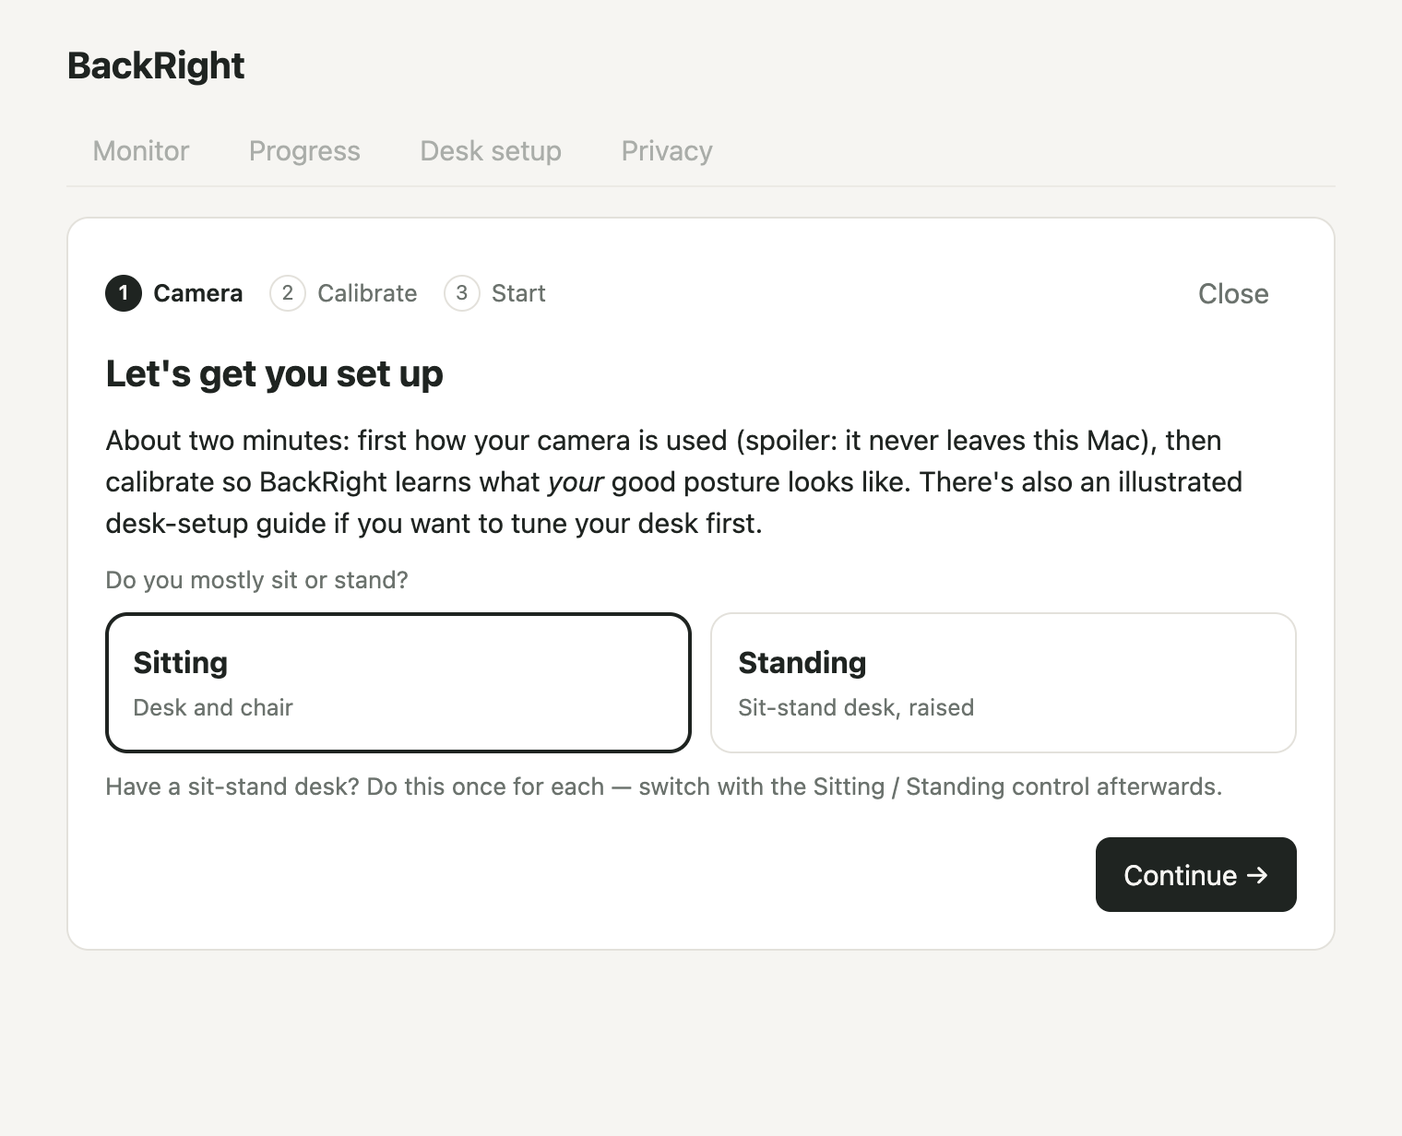
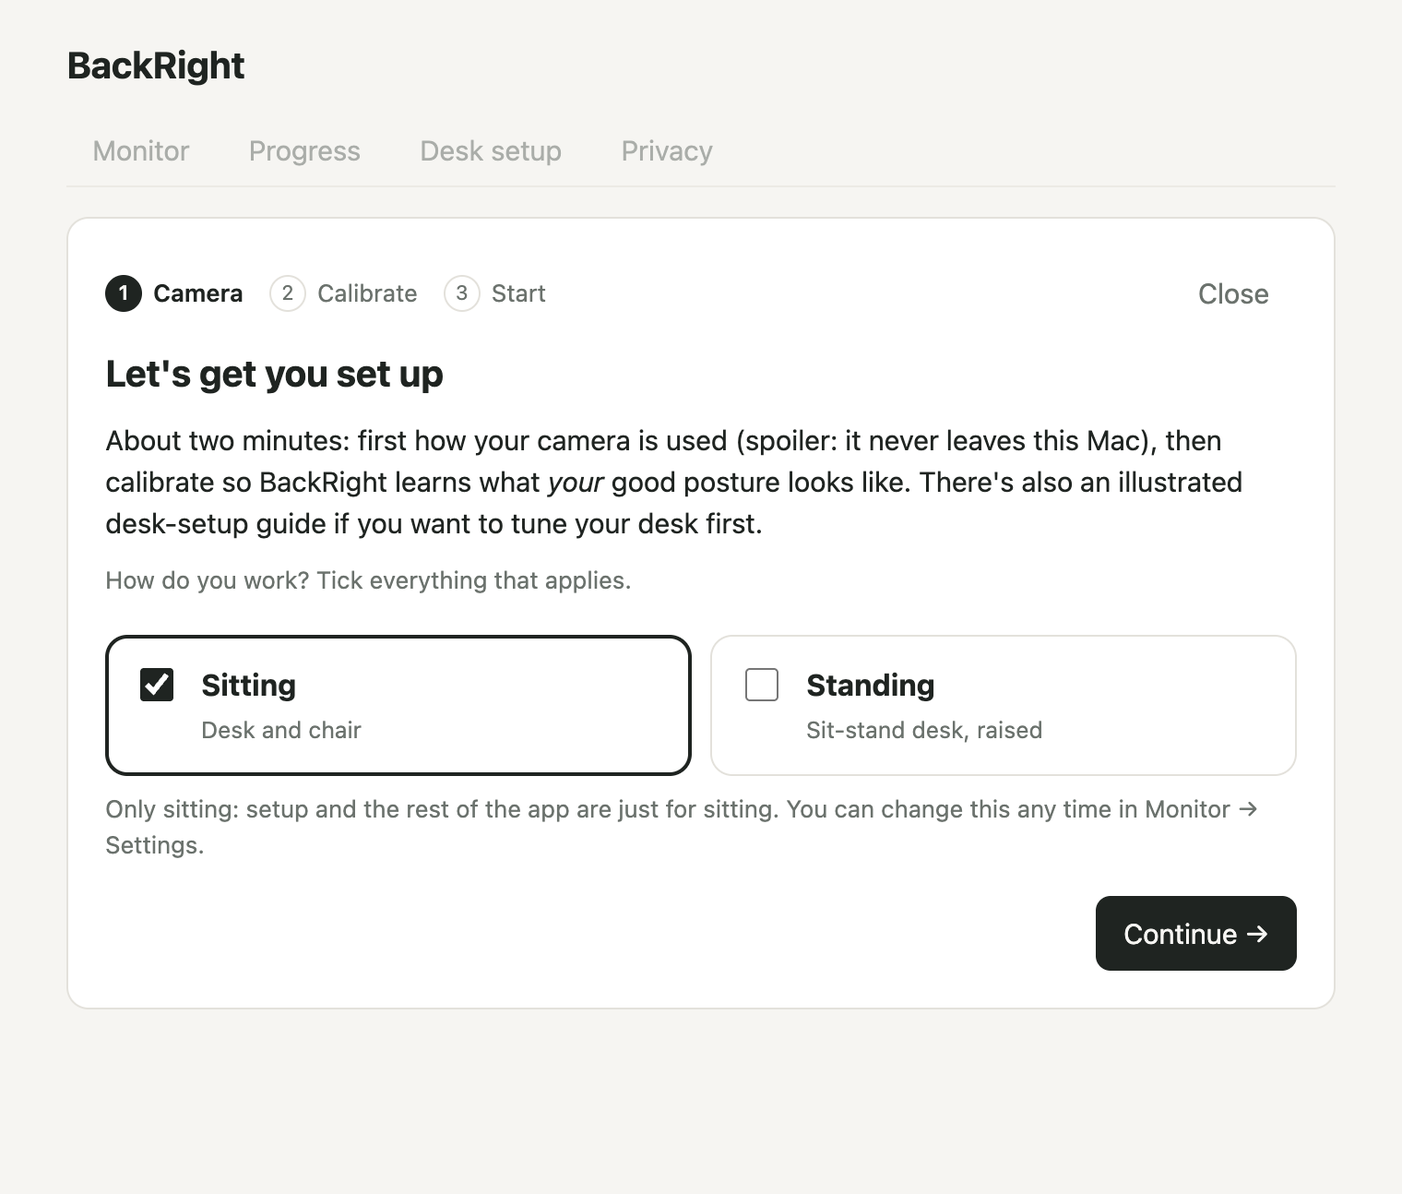
First screen: choose sitting, standing or both; setup, calibration, mode switch and tray follow the choice

diff --git a/src/renderer/onboarding.js b/src/renderer/onboarding.js
@@ -1,11 +1,12 @@
 import { GUIDE, CHECK_LABELS } from "./guide.js";
 import { art } from "./guide-art.js";
+import { withMode } from "./modes.js";
 
 const esc = s => String(s).replace(/[&<>"]/g, c => ({ "&": "&amp;", "<": "&lt;", ">": "&gt;", '"': "&quot;" }[c]));
 const modeWord = m => (m === "sit" ? "sitting" : "standing");
 
 /**
- * First-run walkthrough: Welcome → Camera & privacy → Calibrate → Done.
+ * First-run walkthrough: Welcome (sitting / standing / both) → Camera & privacy → Calibrate (once per chosen mode) → Done.
  * The illustrated desk-setup guide is an optional sub-page, opened from the Calibrate step ("Desk setup guide"),
  * so the main path stays short but the detail is one click away. It can also be opened straight from the Desk setup
  * tab / the reminder banner (start({ fromGuide: true })). `api` is the small slice of app.js this needs.
@@ -13,16 +14,24 @@ const modeWord = m => (m === "sit" ? "sitting" : "standing");
  * `sub` is null on the main path, otherwise which guide page is showing: -1 overview, 0..n-1 the steps, n the check page.
  */
 export function createWizard(root, api) {
-  const STEPS = ["welcome", "privacy", "calibrate", "done"];
+  // the steps depend on what was chosen on the welcome screen: one Calibrate step for each of sitting / standing
+  const stepIds = () => ["welcome", "privacy", ...api.enabledModes().map(m => "calibrate:" + m), "done"];
+  const calibMode = id => (id.startsWith("calibrate:") ? id.slice(10) : null);
   let step = 0, sub = null, calibrating = false, pvTimer = null, pvLastFrames = 0, pvTick = null;
   const ticked = new Set();
 
   const guide = () => GUIDE[api.settings().mode];
-  const go = n => { step = Math.max(0, Math.min(STEPS.length - 1, n)); sub = null; render(); root.scrollIntoView?.({ block: "start" }); };
-  const goStep = id => go(STEPS.indexOf(id));
+  const go = async n => {
+    const ids = stepIds(); step = Math.max(0, Math.min(ids.length - 1, n)); sub = null;
+    const m = calibMode(ids[step]);
+    if (m && api.settings().mode !== m) await api.setMode(m);   // this step calibrates (and shows the guide for) this mode
+    render(); root.scrollIntoView?.({ block: "start" });
+  };
+  const goStep = id => go(stepIds().indexOf(id));
+  const firstCalibrate = () => go(2);
 
   function phase() {
-    const p = { welcome: 1, privacy: 1, calibrate: 2, done: 3 }[STEPS[step]];
+    const id = stepIds()[step], p = id === "welcome" || id === "privacy" ? 1 : id === "done" ? 3 : 2;
     const label = (n, t) => `<li class="${p === n ? "on" : p > n ? "past" : ""}"><span>${p > n ? "✓" : n}</span>${t}</li>`;
     return `<ol class="phases">${label(1, "Camera")}${label(2, "Calibrate")}${label(3, "Start")}</ol>`;
   }
@@ -73,7 +82,7 @@ export function createWizard(root, api) {
 
   // ---------- main path ----------
   function render() {
-    const s = api.settings(), mode = s.mode, g = guide(), id = STEPS[step];
+    const s = api.settings(), mode = s.mode, g = guide(), id = stepIds()[step], modes = id === "welcome" ? api.welcomeModes() : api.enabledModes();
     clearInterval(pvTimer); api.placeStage(null);   // rescue the preview element before innerHTML replaces the card
     let html = "";
 
@@ -83,12 +92,14 @@ export function createWizard(root, api) {
       html = `${top()}
         <h2>Let's get you set up</h2>
         <p class="lead">About two minutes: first how your camera is used (spoiler: it never leaves this Mac), then calibrate so BackRight learns what <i>your</i> good posture looks like. There's also an illustrated desk-setup guide if you want to tune your desk first.</p>
-        <p class="hint">Do you mostly sit or stand?</p>
+        <p class="hint">How do you work? Tick everything that applies.</p>
         <div class="choice" role="group">
-          <button data-mode="sit" class="${mode === "sit" ? "on" : ""}"><b>Sitting</b><small>Desk and chair</small></button>
-          <button data-mode="stand" class="${mode === "stand" ? "on" : ""}"><b>Standing</b><small>Sit-stand desk, raised</small></button>
+          <label class="${modes.includes("sit") ? "on" : ""}"><input type="checkbox" data-modechk="sit" ${modes.includes("sit") ? "checked" : ""}><span><b>Sitting</b><small>Desk and chair</small></span></label>
+          <label class="${modes.includes("stand") ? "on" : ""}"><input type="checkbox" data-modechk="stand" ${modes.includes("stand") ? "checked" : ""}><span><b>Standing</b><small>Sit-stand desk, raised</small></span></label>
         </div>
-        <p class="hint">Have a sit-stand desk? Do this once for each — switch with the Sitting / Standing control afterwards.</p>
+        <p class="hint">${modes.length > 1
+          ? "Both: you'll calibrate each once, then switch with the Sitting / Standing control at the top right (or from the menu-bar icon)."
+          : `Only ${modeWord(modes[0])}: setup and the rest of the app are just for ${modeWord(modes[0])}. You can change this any time in Monitor → Settings.`}</p>
         <div class="row wiz-nav"><span class="spacer"></span><button class="primary" data-act="next">Continue →</button></div>`;
     }
 
@@ -126,8 +137,9 @@ export function createWizard(root, api) {
         </div>`;
     }
 
-    else if (id === "calibrate") {
+    else if (calibMode(id)) {
       const standing = mode === "stand", done = s.setupDone[mode], fail = api.notice();
+      const nth = modes.indexOf(mode) + 1;
       const setupCard = done
         ? `<div class="notice"><b>✓ Desk set up.</b> <button class="link" data-act="openGuide">Review the guide</button></div>`
         : `<div class="card inner setup-card">
@@ -139,7 +151,8 @@ export function createWizard(root, api) {
              <button data-act="openGuide">Desk setup guide →</button>
            </div>`;
       html = `${top()}
-        <h2>Calibrate your alignment</h2>
+        ${modes.length > 1 ? `<p class="eyebrow">${modeWord(mode)} · ${nth} of ${modes.length}</p>` : ""}
+        <h2>Calibrate your ${modes.length > 1 ? modeWord(mode) + " " : ""}alignment</h2>
         ${setupCard}
         <p class="lead">${standing ? "Stand" : "Sit"} the way you want to hold — tall, relaxed, looking at the screen, with your head and shoulders in the camera's view.</p>
         <ul class="points">
@@ -152,16 +165,16 @@ export function createWizard(root, api) {
         <div class="row wiz-nav">
           <button data-act="back">← Back</button>
           <span class="spacer"></span>
-          <button class="ghost" data-act="later">Do this later</button>
+          <button class="ghost" data-act="later">${nth < modes.length ? `Skip ${modeWord(mode)}` : "Do this later"}</button>
           <button class="primary" data-act="calibrate" ${calibrating ? "disabled" : ""}>${calibrating ? "Calibrating…" : "Start calibration"}</button>
         </div>`;
     }
 
     else { // done
-      const calibrated = !!s.baselines[mode], setup = s.setupDone[mode];
+      const calibrated = !!s.baselines[mode], setup = s.setupDone[mode], missing = modes.filter(m => !s.baselines[m]);
       html = `${top()}
         <h2>${calibrated ? "You're all set" : "Setup finished"}</h2>
-        <p class="lead">${calibrated ? "Monitoring will nudge you with a soft glow around the screen when your posture slips." : "You haven't calibrated yet — do it from the Monitor tab when you're ready."}</p>
+        <p class="lead">${calibrated ? "Monitoring will nudge you with a soft glow around the screen when your posture slips." : "You haven't calibrated yet — do it from the Monitor tab when you're ready."}${calibrated && missing.length ? ` ${missing.map(modeWord).map(w => w[0].toUpperCase() + w.slice(1)).join(" and ")} isn't calibrated yet — switch to it at the top right and press Calibrate when you're at that desk height.` : ""}</p>
         <p class="hint">Where to find things later:</p>
         <ul class="points">
           <li><b>Desk setup tab</b> — the illustrated guide${setup ? "" : ", which you haven't gone through yet"}, and the camera check</li>
@@ -169,7 +182,7 @@ export function createWizard(root, api) {
           <li><b>Progress tab</b> — how often you slip and whether it's getting better, day by day</li>
           <li><b>Movement breaks</b> — after 30 minutes at your desk BackRight suggests a quick stretch (change it or turn it off in Monitor → Settings)</li>
           <li><b>Menu-bar and Dock icons</b> — status at a glance; pause or snooze from the menu-bar icon</li>
-          <li><b>Sit-stand desk?</b> Switch to the other mode at the top right and set it up too</li>
+          ${modes.length > 1 ? `<li><b>Sitting / Standing switch</b> — top right of this window and in the menu-bar menu; each is calibrated separately</li>` : ""}
         </ul>
         <div class="row wiz-nav"><span class="spacer"></span><button data-act="finish">Finish</button>${calibrated ? `<button class="primary" data-act="finishStart">Start monitoring</button>` : ""}</div>`;
     }
@@ -200,8 +213,6 @@ export function createWizard(root, api) {
   const openGuide = at => { sub = at; render(); root.scrollIntoView?.({ block: "start" }); };
 
   root.addEventListener("click", async e => {
-    const modeBtn = e.target.closest("[data-mode]");
-    if (modeBtn) { await api.setMode(modeBtn.dataset.mode); render(); return; }
     const pageBtn = e.target.closest("[data-sub]");
     if (pageBtn) { if (api.live() && +pageBtn.dataset.sub !== guide().steps.length) api.setLive(false); sub = +pageBtn.dataset.sub; render(); return; }
     if (e.target.id === "wizLive" || e.target.id === "pvPreview") { api.toggleLive(); render(); return; }
@@ -209,9 +220,9 @@ export function createWizard(root, api) {
     if (!act) return;
     const n = guide().steps.length;
     switch (act) {
-      case "next": go(step + 1); break;
+      case "next": await api.setModes(api.welcomeModes()); go(step + 1); break;   // make the (possibly preselected) choice official
       case "back": api.setLive(false); go(step - 1); break;
-      case "privacyNext": api.setLive(false); goStep("calibrate"); break;
+      case "privacyNext": api.setLive(false); firstCalibrate(); break;
       case "openGuide": openGuide(-1); break;
       case "guideNext": sub = Math.min(sub + 1, n); render(); break;
       case "guidePrev": sub = Math.max(sub - 1, -1); render(); break;
@@ -219,16 +230,18 @@ export function createWizard(root, api) {
       case "setupDone": api.setLive(false); await api.markSetupDone(); sub = null; render(); break;
       case "calibrate":
         calibrating = true; render();
-        api.calibrate(ok => { calibrating = false; ok ? goStep("done") : render(); });
+        api.calibrate(ok => { calibrating = false; ok ? go(step + 1) : render(); });
         break;
-      case "later": goStep("done"); break;
+      case "later": go(step + 1); break;
       case "camSettings": api.openCameraSettings(); break;
       case "relaunch": api.relaunch(); break;
       case "close": case "finish": await close(false); break;
       case "finishStart": await close(true); break;
     }
   });
-  root.addEventListener("change", e => {
+  root.addEventListener("change", async e => {
+    const m = e.target.dataset?.modechk;
+    if (m) { await api.setModes(withMode(api.welcomeModes(), m, e.target.checked)); render(); return; }   // can't untick the last one
     const t = e.target.dataset?.tick; if (t === undefined) return;
     e.target.checked ? ticked.add(+t) : ticked.delete(+t);
   });
@@ -241,7 +254,7 @@ export function createWizard(root, api) {
 
   return {
     /** fromGuide: open straight into the desk-setup guide (replay from the Desk setup tab / reminder banner). */
-    start({ fromGuide = false } = {}) { calibrating = false; ticked.clear(); step = fromGuide ? STEPS.indexOf("calibrate") : 0; sub = fromGuide ? -1 : null; render(); },
+    start({ fromGuide = false } = {}) { calibrating = false; ticked.clear(); step = fromGuide ? Math.max(2, stepIds().indexOf("calibrate:" + api.settings().mode)) : 0; sub = fromGuide ? -1 : null; render(); },
     refresh() { render(); },
   };
 }

diff --git a/src/renderer/app.js b/src/renderer/app.js
@@ -7,6 +7,7 @@ import { createMoveCard } from "./move.js";
 import { createBreakScheduler } from "./breaks.js";
 import * as H from "./history.js";
 import { createProgress } from "./progress.js";
+import { enabledModes, withMode, currentMode } from "./modes.js";
 
 const $ = id => document.getElementById(id);
 const esc = s => String(s).replace(/[&<>"]/g, c => ({ "&": "&amp;", "<": "&lt;", ">": "&gt;", '"': "&quot;" }[c]));
@@ -260,7 +261,9 @@ function render() {
   renderTodayLine();
   if (!inWizard) placeStage(null);                   // never leave the preview parked inside a hidden section
   $("tabs").classList.toggle("locked", inWizard);   // can't wander off mid-walkthrough; "Close" is the exit
-  $("modeSeg").hidden = inWizard;
+  $("modeSeg").hidden = inWizard || enabledModes(settings).length < 2;   // nothing to switch between if you only use one
+  const modes = enabledModes(settings);
+  $("modeSit").checked = modes.includes("sit"); $("modeStand").checked = modes.includes("stand");
 
   const mode = settings.mode;
   const needsSetup = settings.onboarded && !settings.monitoring && !settings.setupDone[mode] && !settings.setupBannerDismissed[mode];
@@ -310,6 +313,9 @@ const wizard = createWizard($("tab-onboard"), {
   privacyStats: () => window.posture.privacyStats(),
   placeStage,
   setMode: async m => { if (m !== settings.mode) { monitor.reset(); window.posture.setWarning(false); await save({ mode: m }); } },
+  enabledModes: () => enabledModes(settings),
+  welcomeModes: () => (settings.modes ? enabledModes(settings) : ["sit"]),   // first run: Sitting preselected
+  setModes: modes => applyModes(modes),
   markSetupDone: () => save({ setupDone: { ...settings.setupDone, [settings.mode]: true } }),
   calibrate: cb => startCalibration(cb),
   hintDeskSetup: on => on ? showTabHint("Skipped for now — the desk setup guide lives here", { persist: true }) : hideTabHint(),
@@ -323,6 +329,15 @@ const wizard = createWizard($("tab-onboard"), {
     else if (skippedSetup || !settings.setupDone[settings.mode]) showTabHint("You can do the desk setup any time from here");
   },
 });
+
+// Choose which of sitting / standing this person uses. If the one in use is switched off, move to the other.
+async function applyModes(modes) {
+  const patch = { modes };
+  if (!modes.includes(settings.mode)) { patch.mode = modes[0]; monitor.reset(); window.posture.setWarning(false); }
+  await save(patch);
+}
+for (const [id, mode] of [["modeSit", "sit"], ["modeStand", "stand"]])
+  $(id).onchange = e => applyModes(withMode(enabledModes(settings), mode, e.target.checked));   // render() resets the box if that was the last one
 
 function openWizard(opts) { tab = "onboard"; notice = ""; wizard.start(opts); render(); }
 
@@ -396,13 +411,14 @@ if (window.posture.isDebug) {
       for (let i = 0; i < count; i++) { simNow += stepMs; simEpoch += stepMs; recordSample(simNow, present, warned); window.posture.setWarning(!!warned); }
     },
     history: () => recorder.data(), saveHistory,
-    state: () => ({ breakShowing, ...breaks.snapshot(), simNow }),
+    state: () => ({ breakShowing, mode: settings.mode, ...breaks.snapshot(), simNow }),
     overlays: () => window.posture.debugOverlays(),   // Electron's own view of which overlay windows are visible
   };
 }
 
 // ---------- boot ----------
 settings = await window.posture.getSettings();
+if (settings.mode !== currentMode(settings)) settings = await window.posture.setSettings({ mode: currentMode(settings) });
 recorder = H.createRecorder(H.prune(H.sanitize(await window.posture.getHistory()), H.dateKey(Date.now())));
 if (!settings.onboarded) { tab = "onboard"; wizard.start(); }
 render();

diff --git a/src/main/main.js b/src/main/main.js
@@ -24,7 +24,8 @@ const CSP = [
 ].join("; ");
 
 const DEFAULTS = {
-  mode: "sit",                 // "sit" | "stand"
+  mode: "sit",                 // "sit" | "stand" — the one in use right now
+  modes: null,                 // which of them this person works in: ["sit"], ["stand"] or both; null = not chosen yet = both
   baselines: { sit: null, stand: null },
   setupDone: { sit: false, stand: false },
   onboarded: false,            // first-run walkthrough finished or closed
@@ -291,14 +292,17 @@ function rebuildTray() {
     { type: "separator" },
     { label: "Take a movement break…", click: () => openPanelAnd("cmd:start-break") },
     { type: "separator" },
-    { label: "Sitting", type: "radio", checked: settings.mode === "sit", click: () => setMode("sit") },
-    { label: "Standing", type: "radio", checked: settings.mode === "stand", click: () => setMode("stand") },
-    { type: "separator" },
+    ...(enabledModes().length > 1 ? [
+      { label: "Sitting", type: "radio", checked: settings.mode === "sit", click: () => setMode("sit") },
+      { label: "Standing", type: "radio", checked: settings.mode === "stand", click: () => setMode("stand") },
+      { type: "separator" },
+    ] : []),
     { label: "Open BackRight…", click: showPanel },
     { label: "Quit", click: () => { app.isQuitting = true; app.quit(); } },
   ]));
 }
 
+function enabledModes() { const m = ["sit", "stand"].filter(x => Array.isArray(settings.modes) && settings.modes.includes(x)); return m.length ? m : ["sit", "stand"]; }
 function setMode(mode) { settings.mode = mode; saveSettings(); rebuildTray(); sendToPanel("settings:changed", settings); }
 function sendToPanel(ch, payload) { if (panel && !panel.isDestroyed()) panel.webContents.send(ch, payload); }
 

diff --git a/src/renderer/modes.js b/src/renderer/modes.js
@@ -1,0 +1,24 @@
+// Which postures the person actually works in: sitting, standing, or both (a sit-stand desk). Pure; no DOM.
+// `settings.modes` is null until they choose (v0.1 settings files have no such key) — null means "both", so upgrading
+// changes nothing.
+export const ALL_MODES = ["sit", "stand"];
+
+/** The enabled modes, in sit → stand order. Never empty. */
+export function enabledModes(settings) {
+  const m = settings?.modes;
+  if (!Array.isArray(m)) return [...ALL_MODES];
+  const ok = ALL_MODES.filter(x => m.includes(x));
+  return ok.length ? ok : [...ALL_MODES];
+}
+
+/** Turn one mode on or off. Refuses to leave nothing selected (returns the list unchanged). */
+export function withMode(modes, which, on) {
+  const next = ALL_MODES.filter(m => (m === which ? on : modes.includes(m)));
+  return next.length ? next : [...modes];
+}
+
+/** The mode to be in: the current one if it's still enabled, otherwise the first enabled one. */
+export function currentMode(settings) {
+  const modes = enabledModes(settings);
+  return modes.includes(settings?.mode) ? settings.mode : modes[0];
+}

diff --git a/src/renderer/style.css b/src/renderer/style.css
@@ -95,6 +95,10 @@ button.ghost:hover { color:var(--fg); }
 .choice { display:grid; grid-template-columns:1fr 1fr; gap:10px; margin:8px 0; }
 .choice button { text-align:left; padding:14px; border-radius:12px; } .choice button b { display:block; font-size:16px; } .choice button small { color:var(--muted); }
 .choice button.on { border:2px solid var(--accent); padding:13px; }
+.choice label { color:var(--fg); font-size:inherit; display:flex; gap:12px; align-items:flex-start; cursor:pointer; padding:14px; border:1px solid var(--line); border-radius:12px; background:var(--card); }
+.choice label b { display:block; font-size:16px; } .choice label small { color:var(--muted); }
+.choice label input { margin-top:3px; width:18px; height:18px; accent-color:var(--accent); flex:none; }
+.choice label.on { border:2px solid var(--accent); padding:13px; }
 .notice.warn { margin-top:0; }
 .banner { margin-bottom:16px; }
 .guide-cards { display:grid; gap:18px; margin:12px 0; }

diff --git a/src/renderer/index.html b/src/renderer/index.html
@@ -82,6 +82,12 @@
         <label class="inline"><input type="checkbox" id="glowOn"> Screen glow</label>
         <label class="inline"><input type="checkbox" id="pillOn"> Reminder pill</label>
       </div>
+      <h3 class="subhead">How you work</h3>
+      <div class="row">
+        <label class="inline"><input type="checkbox" id="modeSit"> Sitting</label>
+        <label class="inline"><input type="checkbox" id="modeStand"> Standing</label>
+      </div>
+      <p class="hint">Choose both for a sit-stand desk; each is calibrated separately. With only one, the Sitting / Standing switch is hidden.</p>
       <h3 class="subhead">Movement breaks</h3>
       <div class="row">
         <label class="inline"><input type="checkbox" id="breakOn"> Remind me to move</label>

diff --git a/README.md b/README.md
@@ -23,7 +23,7 @@ BackRight isn't notarized (that needs a paid Apple developer account), so macOS 
 
 <table>
   <tr>
-    <td width="50%"><img src="docs/screenshots/01-welcome.png" alt="Welcome: pick sitting or standing"><br><sub><b>1.</b> Welcome — sitting or standing, each calibrated separately</sub></td>
+    <td width="50%"><img src="docs/screenshots/01-welcome.png" alt="Welcome: pick sitting or standing"><br><sub><b>1.</b> Welcome — sitting, standing or both, each calibrated separately</sub></td>
     <td width="50%"><img src="docs/screenshots/02-camera-privacy.png" alt="Camera privacy step with the turn-off-Wi-Fi test"><br><sub><b>2.</b> Camera &amp; privacy — what happens to the video, and a Wi-Fi-off test you can run yourself</sub></td>
   </tr>
   <tr>
@@ -94,7 +94,7 @@ Hover it for a tooltip with the same in words; the menu's top line says it too.
 
 ## How to use it
 
-1. **Welcome** — pick Sitting or Standing (each has its own calibration).
+1. **Welcome** — tick Sitting, Standing or both (a sit-stand desk). Each gets its own calibration, and the rest of setup follows your choice: one mode means one calibration and no Sitting / Standing switch; both means you calibrate each, then switch between them. Change it any time in Monitor → Settings → How you work.
 2. **Camera & privacy** — what happens to the video, with a live preview you can test with Wi-Fi off.
 3. **Calibrate** — hold the posture you want to keep for a few seconds. That's your baseline. Not sure your desk is set up well? Open the **Desk setup guide** from this screen: an illustrated sub-page (overview, one page per step, and a camera check) that returns you to calibration.
 4. **Start monitoring.** If you drift from the baseline (head dropping toward your shoulders, leaning toward the screen, shoulders uneven) for a few seconds, a soft glow appears around every screen. It fades when you correct.

diff --git a/docs/releases/v0.2.0.md b/docs/releases/v0.2.0.md
@@ -6,6 +6,7 @@
 - **Progress tab.** How much of today you held good posture, how many times you slipped, and breaks taken. A plain-language answer to "is it getting better?" compares the last 7 days with the 7 before, with a 14/30-day chart. If you changed the sensitivity in that period the chart says so, because it changes what counts as a slip. **Export as CSV** or **Delete history** any time.
 - **Movement-break reminders.** After 30 minutes of desk time (time you're present and being monitored), a small green pill asks if you'd like a quick stretch: *Show me*, *Snooze 10 min* or *Skip*. It never takes focus, waits behind a live posture nudge, respects Snooze, and stepping away for 5 minutes counts as a break automatically. Interval (20/30/45/60 min) or off is under Monitor → Settings. Also in the menu-bar menu: *Take a movement break…*.
 - **Stretch library and Move card.** 16 easy stretches for sitting at your desk or standing up (including a 20-20-20 eye break), shown on the Monitor tab with a guided 2-minute routine that steps through three stretches with a timer.
+- **Sitting, standing or both.** The first screen now has checkboxes, and setup follows them: one mode means one calibration and no Sitting / Standing switch; both means each is calibrated in turn. Change it later in Monitor → Settings → How you work. Existing users keep both.
 - **A "Today" line** on the Monitor tab and a refreshed first-run summary.
 
 ### Privacy
